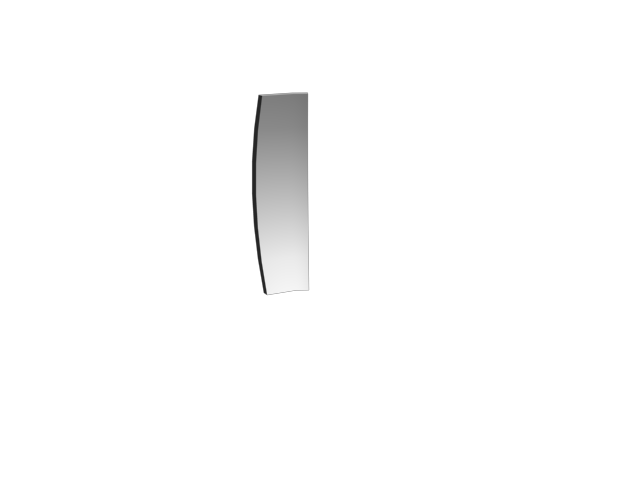
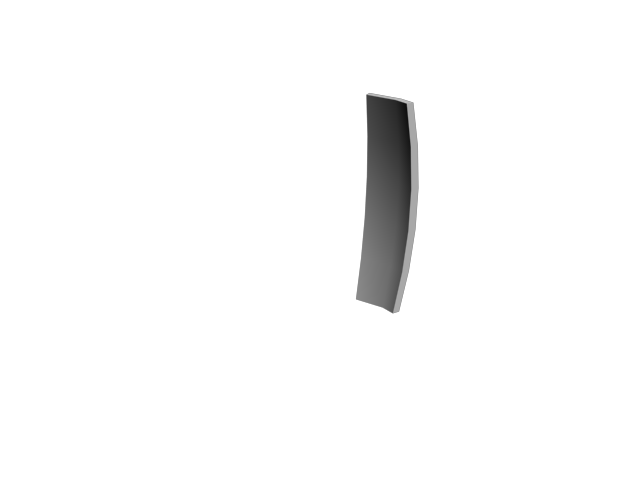
Rotating edition 1

Changed region(s): [[0.375, 0.1875, 0.5, 0.625], [0.5312, 0.1875, 0.6562, 0.6562]]

diff --git a/Tonnenklaps/Tonnenklaps/TonnenklapsGame.cs b/Tonnenklaps/Tonnenklaps/TonnenklapsGame.cs
@@ -11,6 +11,7 @@ using Microsoft.Xna.Framework.Media;
 using GameDev.Utils;
 using Tonnenklaps.Controller;
 using Tonnenklaps.Sprites;
+using GameDev.Commands;
 
 namespace Tonnenklaps
 {
@@ -25,6 +26,11 @@ namespace Tonnenklaps
         public TonnenklapsGame()
         {
             Content.RootDirectory = "Content";
+#if DEBUG
+            GameDevGame.Current.GraphicsDeviceManager.IsFullScreen = false;
+#else
+            GameDevGame.Current.GraphicsDeviceManager.IsFullScreen = true;
+#endif
         }
 
         /// <summary>
@@ -55,6 +61,7 @@ namespace Tonnenklaps
             //spriteBatch = new SpriteBatch(GraphicsDevice);
             base.LoadContent();
             Components.Add(m_Barrel);
+
 
 
             // TODO: use this.Content to load your game content here
@@ -89,6 +96,7 @@ namespace Tonnenklaps
 
             base.Update(gameTime);
         }
+
 
         /// <summary>
         /// This is called when the game should draw itself.

diff --git a/GameDev/Utils/GameExtensions.cs b/GameDev/Utils/GameExtensions.cs
@@ -9,16 +9,16 @@ namespace GameDev.Utils
 {
     public static class GameExtensions
     {
-        private static GraphicsDeviceManager m_GraphicsDeviceManager = null;
+        //private static GraphicsDeviceManager m_GraphicsDeviceManager = null;
 
-        public static GraphicsDeviceManager GraphicsDeviceManager(this Game game)
-        {
-            if (m_GraphicsDeviceManager == null)
-            {
-                m_GraphicsDeviceManager = new GraphicsDeviceManager(game);
-            }
-            return m_GraphicsDeviceManager;
-        }
+        //public static GraphicsDeviceManager GraphicsDeviceManager(this Game game)
+        //{
+        //    if (m_GraphicsDeviceManager == null)
+        //    {
+        //        m_GraphicsDeviceManager = new GraphicsDeviceManager(game);
+        //    }
+        //    return m_GraphicsDeviceManager;
+        //}
 
         //private static SpriteBatch m_CurrentSpriteBatch = null;
 

diff --git a/Tonnenklaps/Tonnenklaps/Util/ColorUtils.cs b/Tonnenklaps/Tonnenklaps/Util/ColorUtils.cs
@@ -30,13 +30,13 @@ namespace Tonnenklaps.Util
             switch (color)
             {
                 case PossibleColors.Blue:
-                    return Color.Brown;
+                    return Color.Blue;
                 case PossibleColors.Red:
-                    return Color.Brown;
+                    return Color.Red;
                 case PossibleColors.Yellow:
-                    return Color.Brown;
+                    return Color.Yellow;
                 case PossibleColors.Green:
-                    return Color.Brown;
+                    return Color.Green;
                 default:
                     throw new ArgumentException("Cannot convert this color");
             }

diff --git a/Tonnenklaps/Tonnenklaps/Sprites/RotatingBarrel.cs b/Tonnenklaps/Tonnenklaps/Sprites/RotatingBarrel.cs
@@ -39,10 +39,10 @@ namespace Tonnenklaps.Sprites
         {
             for (int i = 0; i < NumberOfStaffs; i++)
             {
-                m_VisualStaffs[i].PhysicalStaffIndex--;
-                if (m_VisualStaffs[i].PhysicalStaffIndex < 0)
+                m_VisualStaffs[i].PhysicalStaffIndex++;
+                if (m_VisualStaffs[i].PhysicalStaffIndex > 11)
                 {
-                    m_VisualStaffs[i].PhysicalStaffIndex += NumberOfStaffs;
+                    m_VisualStaffs[i].PhysicalStaffIndex -= NumberOfStaffs;
                 }
             }
         }

diff --git a/Tonnenklaps/Tonnenklaps/Sprites/Barrel.cs b/Tonnenklaps/Tonnenklaps/Sprites/Barrel.cs
@@ -68,7 +68,7 @@ namespace Tonnenklaps.Sprites
 
             for (int i = 0; i < NumberOfStaffs; i++)
             {
-                if (i <= 5)
+                if (i <= 3 || i >= 11)
                 {
                     m_VisualStaffs[i].TheColor = ColorUtils.GetFrontColor(m_PhysicalStaffs[m_VisualStaffs[i].PhysicalStaffIndex].Color);
                 }

diff --git a/GameDev/Commands/CommandActions.cs b/GameDev/Commands/CommandActions.cs
@@ -18,7 +18,7 @@ namespace GameDev.Commands
 
         public static void ToggleFullScreen(GameTime time)
         {
-            Game.GraphicsDeviceManager().ToggleFullScreen();
+            GameDevGame.Current.GraphicsDeviceManager.ToggleFullScreen();
         }
     }
 }
